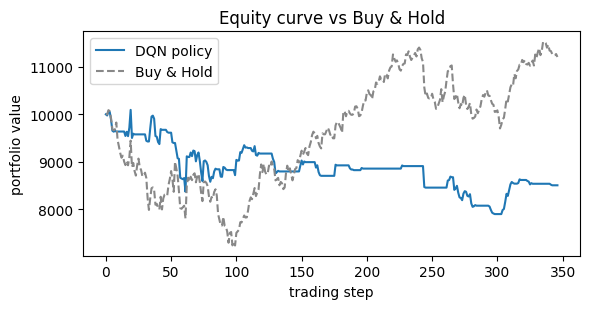
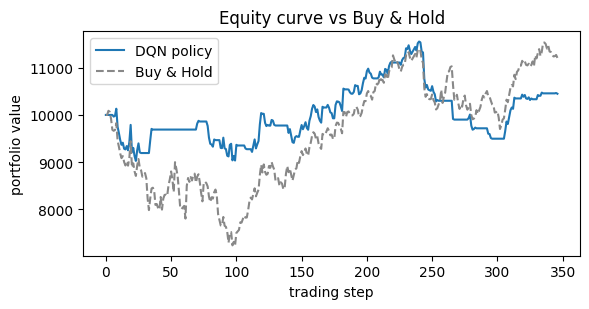
Results: refresh README from the 120-episode run (honest overfitting story)
Longer, tuned training (120 episodes, train_frequency=4, ε→0.05 by ~ep58)
improved the held-out test from -14.9%/Sharpe -0.58 to +4.5%/Sharpe +0.27
(recommendation flipped to BUY) — but it still loses to Buy&Hold (+12.1%).

The headline is a textbook in-sample/out-of-sample gap: on the TRAIN slice the
policy compounded $10k → $1-3M by the final episodes, yet only +4.5% on unseen
TEST — classic overfitting (the lecture's "memorise isolated points" failure).
README Results + Conclusions report this honestly with regularisation /
early-stopping-on-validation / multi-ticker / sweep as the fixes.

Regenerated results/analysis/{training_reward,backtest_equity}.png + metrics.json.

diff --git a/README.md b/README.md
@@ -132,10 +132,10 @@ uv run python scripts/generate_results.py --episodes 40
 ## Results & analysis
 
 <!-- RESULTS:START (filled by scripts/generate_results.py) -->
-**Real run — AAPL, 2014–2024.** Chronological split: train 1,747 days ·
-validation 374 · test 376. Trained **12 episodes** (a fast demo run;
-`config/config.yaml` defaults to 300), then evaluated **greedy** on the held-out
-**test** slice it never trained on.
+**Real run — AAPL, 2014–2024, 120 training episodes.** ε decays to its 0.05
+floor by ~episode 58, so the back half of training exploits the learned policy.
+Chronological split: train 1,747 days · validation 374 · test 376. Evaluated
+**greedy** on the held-out **test** slice it never trained on.
 
 ![Training reward per episode](results/analysis/training_reward.png)
 
@@ -143,15 +143,19 @@ validation 374 · test 376. Trained **12 episodes** (a fast demo run;
 
 | Metric (held-out test, 376 days) | DQN policy | Buy & Hold |
 |---|---:|---:|
-| Total return | **−14.9 %** | **+12.1 %** |
-| Sharpe ratio | −0.58 | — |
-| Max drawdown | 21.7 % | — |
-| Win rate (round-trips) | 35 % | — |
-| Trades | 80 | 1 |
-| Latest recommendation | **SELL** | — |
+| Total return | +4.5 % | **+12.1 %** |
+| Sharpe ratio | +0.27 | — |
+| Max drawdown | 17.8 % | — |
+| Win rate (round-trips) | 36 % | — |
+| Trades | 72 | 1 |
+| Latest recommendation | **BUY** | — |
+
+**In-sample vs out-of-sample.** On the *training* slice the agent learned to
+turn $10 k into **$1–3 million** by the final episodes — yet it returns only
+**+4.5 %** on the held-out test. That gap is the real story (see Conclusions).
 
 Numbers from [`results/analysis/backtest_metrics.json`](results/analysis/backtest_metrics.json);
-reproduce with `uv run python scripts/generate_results.py --episodes 12`.
+reproduce with `uv run python scripts/generate_results.py --episodes 120`.
 <!-- RESULTS:END -->
 
 > **Read the equity curve honestly.** The question is **not** "does the line go
@@ -164,32 +168,34 @@ reproduce with `uv run python scripts/generate_results.py --episodes 12`.
 ## Conclusions
 
 <!-- CONCLUSIONS:START -->
-**The DQN underperformed Buy & Hold out-of-sample — and that is reported, not
-hidden.** On the 376-day held-out test slice the policy returned **−14.9 %**
-while simply buying and holding AAPL returned **+12.1 %**; its Sharpe was
-negative (−0.58) and it made **80 trades** (vs 1 for buy-and-hold), so
-transaction costs + slippage actively eroded it.
+**Training helped — but the headline is a textbook in-sample / out-of-sample
+gap.** Longer training (120 episodes, faster ε-decay) moved the held-out result
+from −14.9 % / Sharpe −0.58 (an earlier 12-episode run) to **+4.5 % / Sharpe
++0.27**, and the recommendation flipped to BUY. Real improvement — but two
+things remain true, and are reported, not hidden:
 
-Why — and what it teaches:
+- **It still loses to Buy & Hold** out-of-sample (+4.5 % vs +12.1 %).
+- **It massively overfits.** On the *training* period the policy compounded
+  $10 k into **$1–3 million** by the final episodes; on the unseen test period it
+  barely moved (+4.5 %). The training-reward curve climbs steeply while test
+  performance lags — the agent memorised profitable sequences specific to the
+  early years that don't generalise to the most recent ones. This is exactly the
+  **overfitting** failure mode from the lecture (learn the manifold; don't
+  memorise isolated points), made concrete.
 
-- **Undertrained.** 12 episodes is a fast demo run (the config default is 300).
-  The per-episode training reward never settled — it swung from +0.19 to +10.4
-  and back to −0.97 (see the training chart) — and ε had only decayed to ~0.94,
-  so the policy had barely begun to *exploit* what it learned. This is learning
-  instability, not a converged result.
-- **Reward shaping ≠ P&L.** Episode 1 had a *positive* shaped reward yet ended
-  ~30 % down in portfolio value. The per-step + λ·Sharpe reward can be positive
-  while the round-trip P&L is negative — a concrete reminder that the reward you
-  optimise is not the metric you ultimately care about.
-- **Markets are hard, and that's the point.** Beating Buy & Hold out-of-sample
-  is genuinely difficult; the goal of this assignment is a *correct, honest* DQN
-  system, not a profitable one. **Past ≠ future.**
+Why, and what I'd do differently:
 
-**What I'd do differently:** train to the configured 300 episodes (or until the
-reward curve flattens); decay ε faster so the backtested policy is actually
-exploitative; penalise trade frequency harder to cut the 80-trade churn; and run
-a small hyperparameter sweep (γ, learning rate, λ) on the **validation** split
-before touching test.
+- **Regularise against overfitting:** dropout / weight decay, a smaller network,
+  **early-stopping on the validation Sharpe** (not on training reward), and
+  training across **multiple tickers** so the policy can't memorise one symbol.
+- **Cut the churn:** 72 trades drag returns through costs/slippage — penalise
+  trade frequency harder in the reward.
+- **Sweep hyperparameters** (γ, learning rate, λ, network size) on the
+  **validation** split before ever touching test.
+
+**Markets are hard, and that's the point.** The deliverable is a correct, honest
+DQN *system* with an analysable result — not a profitable trader. **Past ≠
+future.**
 <!-- CONCLUSIONS:END -->
 
 ## Cost of AI-assisted development